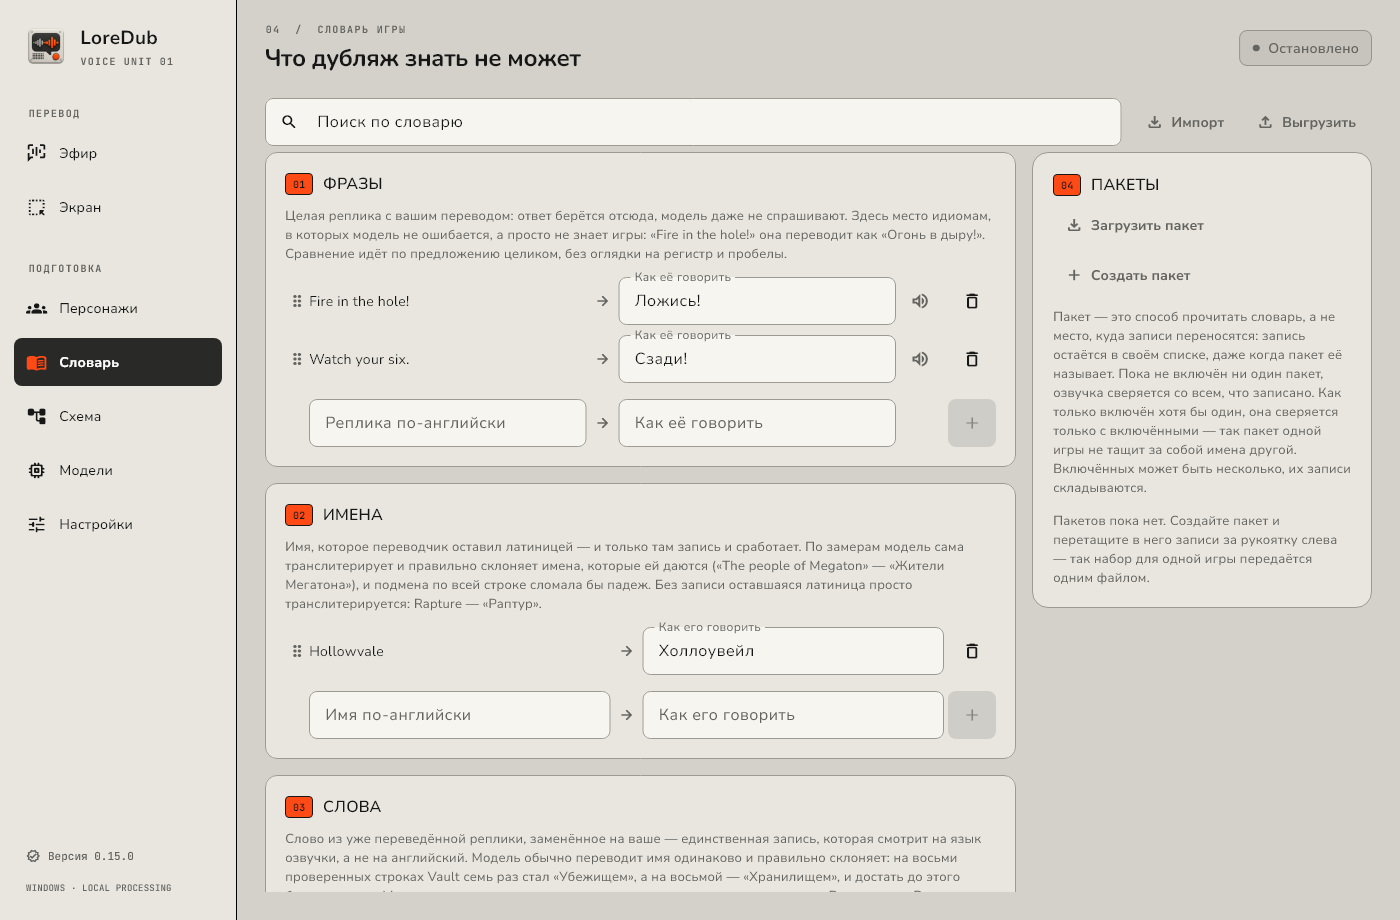
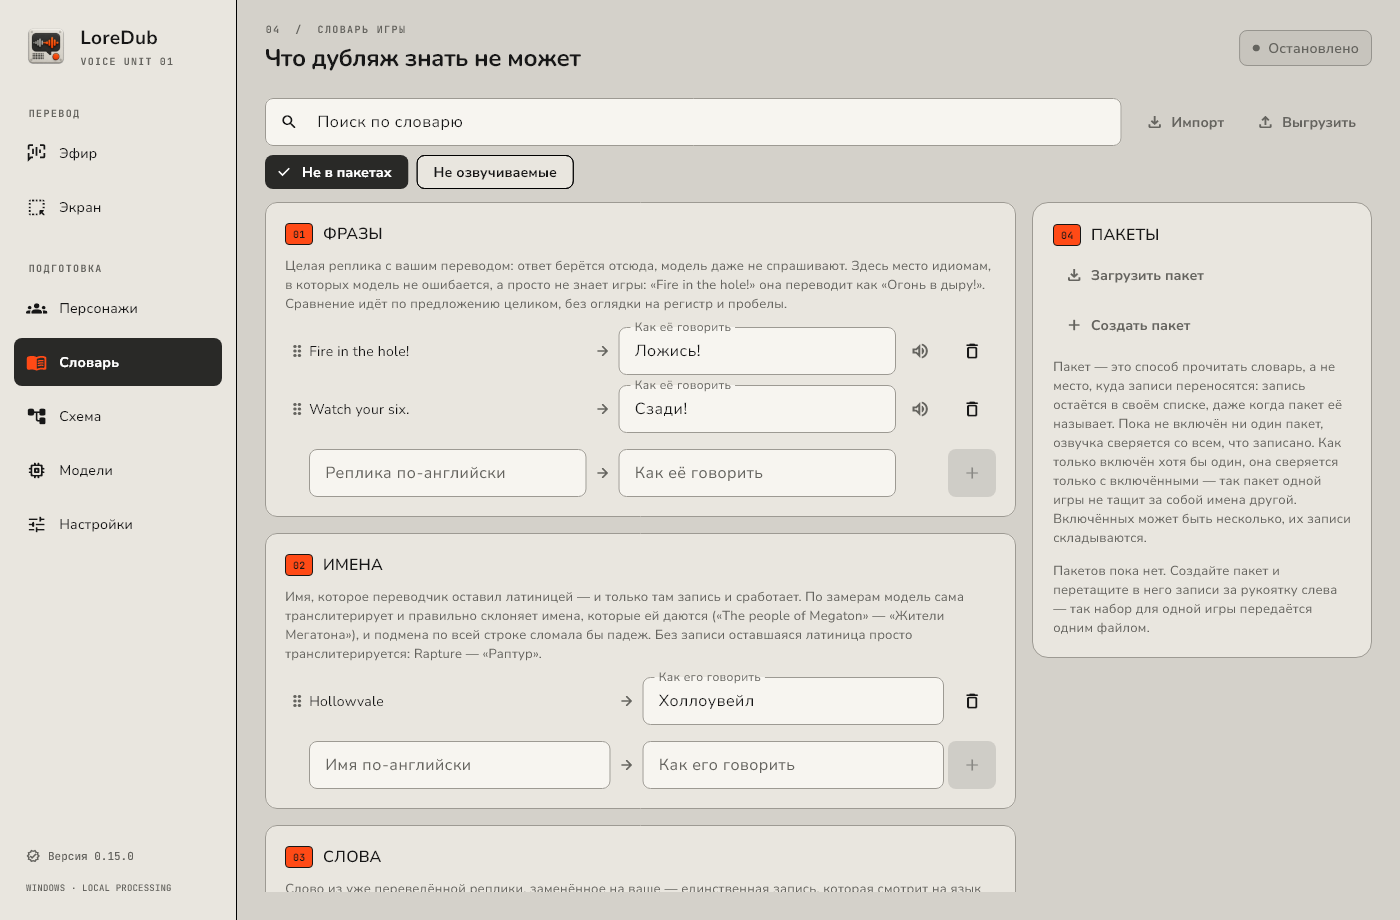
feat: two ready filters beside the glossary search
"In no pack" and "Passed over", as chips next to the search. The first is on
from the start: the packs that come with the application put a hundred
entries into the lists, and the handful the player wrote for themselves would
be lost among them. Switching it off shows the glossary whole.

Both narrow the lists and not the packs. A pack showing none of its own
members would read as empty, which it is not -- the text search narrows the
chips, since there the player is looking for one line, while these two are
asking what is not filed and what is not said.

diff --git a/lib/src/ui/dashboard/glossary_screen.dart b/lib/src/ui/dashboard/glossary_screen.dart
@@ -52,6 +52,15 @@ class _GlossaryPanelState extends State<GlossaryPanel> {
   /// rather than by where it stands.
   String _looking = '';
 
+  /// Show only what no pack holds. On to begin with: the packs that come
+  /// with the application put a hundred entries into these lists, and the
+  /// handful the player wrote themselves would be lost among them. Turning
+  /// it off shows the glossary whole.
+  bool _looseOnly = true;
+
+  /// Show only the lines that are passed over rather than said.
+  bool _silentOnly = false;
+
   @override
   void dispose() {
     _search.dispose();
@@ -66,10 +75,33 @@ class _GlossaryPanelState extends State<GlossaryPanel> {
         entry.reading.toLowerCase().contains(_looking);
   }
 
+  /// The presets narrow the lists and not the packs: a pack showing none of
+  /// its own members would read as empty, which it is not.
+  bool _listed(Glossary glossary, GlossaryEntry entry) {
+    if (!_matches(entry)) return false;
+    if (_silentOnly && !entry.silent) return false;
+    if (_looseOnly && glossary.packsHolding(entry).isNotEmpty) return false;
+    return true;
+  }
+
   List<GlossaryEntry> _of(Glossary glossary, GlossaryKind kind) => [
     for (final entry in glossary.of(kind))
-      if (_matches(entry)) entry,
+      if (_listed(glossary, entry)) entry,
   ];
+
+  Widget _preset({
+    required String label,
+    required bool chosen,
+    required ValueChanged<bool> onChanged,
+    required String id,
+  }) => FilterChip(
+    key: ValueKey('glossary-preset-$id'),
+    label: Text(label),
+    selected: chosen,
+    onSelected: onChanged,
+    showCheckmark: true,
+    visualDensity: VisualDensity.compact,
+  );
 
   Future<void> _export() async {
     final location = await getSaveLocation(
@@ -154,6 +186,29 @@ class _GlossaryPanelState extends State<GlossaryPanel> {
                     icon: const Icon(Icons.file_upload_outlined, size: 18),
                     label: Text(l10n.glossaryExport),
                     style: TextButton.styleFrom(foregroundColor: LoreDubPalette.mutedInk),
+                  ),
+                ],
+              ),
+            ),
+            // Two ready answers to questions the player asks often enough to
+            // deserve a press rather than a typed word.
+            Padding(
+              padding: const EdgeInsets.only(bottom: 10),
+              child: Wrap(
+                spacing: 8,
+                runSpacing: 6,
+                children: [
+                  _preset(
+                    id: 'loose',
+                    label: l10n.glossaryOnlyLoose,
+                    chosen: _looseOnly,
+                    onChanged: (value) => setState(() => _looseOnly = value),
+                  ),
+                  _preset(
+                    id: 'silent',
+                    label: l10n.glossaryOnlySilent,
+                    chosen: _silentOnly,
+                    onChanged: (value) => setState(() => _silentOnly = value),
                   ),
                 ],
               ),

diff --git a/test/widget_test.dart b/test/widget_test.dart
@@ -805,6 +805,60 @@ void main() {
     expect(find.descendant(of: pack, matching: find.textContaining('2')), findsWidgets);
   });
 
+  // The packs that come with the application put a hundred entries into the
+  // lists, and the handful the player wrote would be lost among them.
+  testWidgets('opens on what no pack holds, and shows the rest when asked', (tester) async {
+    const packed = GlossaryEntry(
+      kind: GlossaryKind.phrase,
+      source: 'Fire in the hole!',
+      reading: 'Ложись!',
+    );
+    const mine = GlossaryEntry(
+      kind: GlossaryKind.phrase,
+      source: 'Open the gate.',
+      reading: 'Открой ворота.',
+    );
+    const hushed = GlossaryEntry(
+      kind: GlossaryKind.phrase,
+      source: 'Reloading!',
+      reading: '',
+      silent: true,
+    );
+    final cubits = stage(buildCubits(), section: DashboardSection.glossary);
+    cubits.glossary.seed(
+      GlossaryState(
+        loaded: true,
+        glossary: Glossary(
+          entries: const [packed, mine, hushed],
+          packs: [
+            GlossaryPack(id: 'p1', name: 'Shooters', entryKeys: [packed.packKey]),
+          ],
+        ),
+      ),
+    );
+    await pumpDashboard(tester, cubits, const Size(1400, 1000));
+
+    // By the row's own key rather than by its text: the same line also shows
+    // as a chip inside the pack, which the presets deliberately leave alone.
+    Finder row(GlossaryEntry entry) => find.byKey(ValueKey('${entry.kind.name}:${entry.key}'));
+
+    // The preset is on to begin with, so the packed line is not in the list.
+    expect(row(mine), findsOneWidget);
+    expect(row(hushed), findsOneWidget);
+    expect(row(packed), findsNothing);
+
+    await tester.tap(find.byKey(const ValueKey('glossary-preset-loose')));
+    await tester.pumpAndSettle();
+    expect(row(packed), findsOneWidget);
+
+    // And the other preset leaves only the lines that are passed over.
+    await tester.tap(find.byKey(const ValueKey('glossary-preset-silent')));
+    await tester.pumpAndSettle();
+    expect(row(hushed), findsOneWidget);
+    expect(row(mine), findsNothing);
+    expect(row(packed), findsNothing);
+  });
+
   testWidgets('passes a line over from the transcript', (tester) async {
     final cubits = stage(
       buildCubits(),

diff --git a/lib/l10n/app_localizations.dart b/lib/l10n/app_localizations.dart
@@ -405,6 +405,18 @@ abstract class AppLocalizations {
   /// **'Поиск по словарю'**
   String get glossarySearch;
 
+  /// No description provided for @glossaryOnlyLoose.
+  ///
+  /// In ru, this message translates to:
+  /// **'Не в пакетах'**
+  String get glossaryOnlyLoose;
+
+  /// No description provided for @glossaryOnlySilent.
+  ///
+  /// In ru, this message translates to:
+  /// **'Не озвучиваемые'**
+  String get glossaryOnlySilent;
+
   /// No description provided for @glossarySearchClear.
   ///
   /// In ru, this message translates to:

diff --git a/lib/l10n/app_localizations_ru.dart b/lib/l10n/app_localizations_ru.dart
@@ -178,6 +178,12 @@ class AppLocalizationsRu extends AppLocalizations {
   String get glossarySearch => 'Поиск по словарю';
 
   @override
+  String get glossaryOnlyLoose => 'Не в пакетах';
+
+  @override
+  String get glossaryOnlySilent => 'Не озвучиваемые';
+
+  @override
   String get glossarySearchClear => 'Очистить поиск';
 
   @override

diff --git a/lib/l10n/app_localizations_en.dart b/lib/l10n/app_localizations_en.dart
@@ -178,6 +178,12 @@ class AppLocalizationsEn extends AppLocalizations {
   String get glossarySearch => 'Search the glossary';
 
   @override
+  String get glossaryOnlyLoose => 'In no pack';
+
+  @override
+  String get glossaryOnlySilent => 'Passed over';
+
+  @override
   String get glossarySearchClear => 'Clear the search';
 
   @override

diff --git a/README.md b/README.md
@@ -290,6 +290,12 @@ Ctrl+Alt+S) — экран слегка затемнится, — обведит
 кладёт сюда как фразу. Словарь один на все игры, как и карточки персонажей, и
 действует со следующей реплики, а не со следующего запуска.
 
+Рядом с поиском — два готовых фильтра. **«Не в пакетах»** включён сразу:
+встроенные пакеты кладут в списки сотню записей, и свои несколько среди них
+терялись бы, — выключите его, и словарь снова виден целиком. **«Не
+озвучиваемые»** оставляет только пропускаемые строки. Оба сужают списки, но
+не пакеты: пакет, показывающий ноль своих же записей, читался бы как пустой.
+
 Над списками — поиск. Он сужает все три сразу и отвечает на обе половины
 записи: искать можно и по услышанному английскому, и по написанному
 русскому. Пакеты сужаются вместе со списками, так что найденную запись

diff --git a/CHANGELOG.md b/CHANGELOG.md
@@ -4,6 +4,11 @@
 
 ## [Не выпущено]
 
+- Рядом с поиском встали два готовых фильтра: «Не в пакетах» и «Не
+  озвучиваемые». Первый включён с самого начала — встроенные пакеты кладут
+  в списки сотню записей, и свои несколько среди них терялись бы; выключите
+  его, и словарь снова виден целиком. Фильтры сужают только списки: пакет,
+  показывающий ноль своих же записей, читался бы как пустой.
 - В «Словаре» появился поиск: он сужает все три списка сразу и отвечает на
   обе половины записи — можно искать и по услышанному английскому, и по
   тому, что вы написали по-русски. Пакеты он сужает тоже, так что найденную

diff --git a/README.en.md b/README.en.md
@@ -300,6 +300,13 @@ and files what you wrote here as a phrase. The glossary is one list for every
 game, as the character cards are, and it takes effect from the next line
 rather than the next session.
 
+Two ready filters sit beside the search. **In no pack** is on from the
+start: the built-in packs put a hundred entries into the lists, and the few
+the player wrote would be lost among them -- switch it off and the glossary
+is whole again. **Passed over** leaves only the lines that are not said.
+Both narrow the lists and not the packs: a pack showing none of its own
+members would read as empty.
+
 A search sits over the lists. It narrows all three at once and answers on
 both halves of an entry: the English that was heard or the Russian that was
 written. Packs are narrowed with them, so a line found can be dragged into
